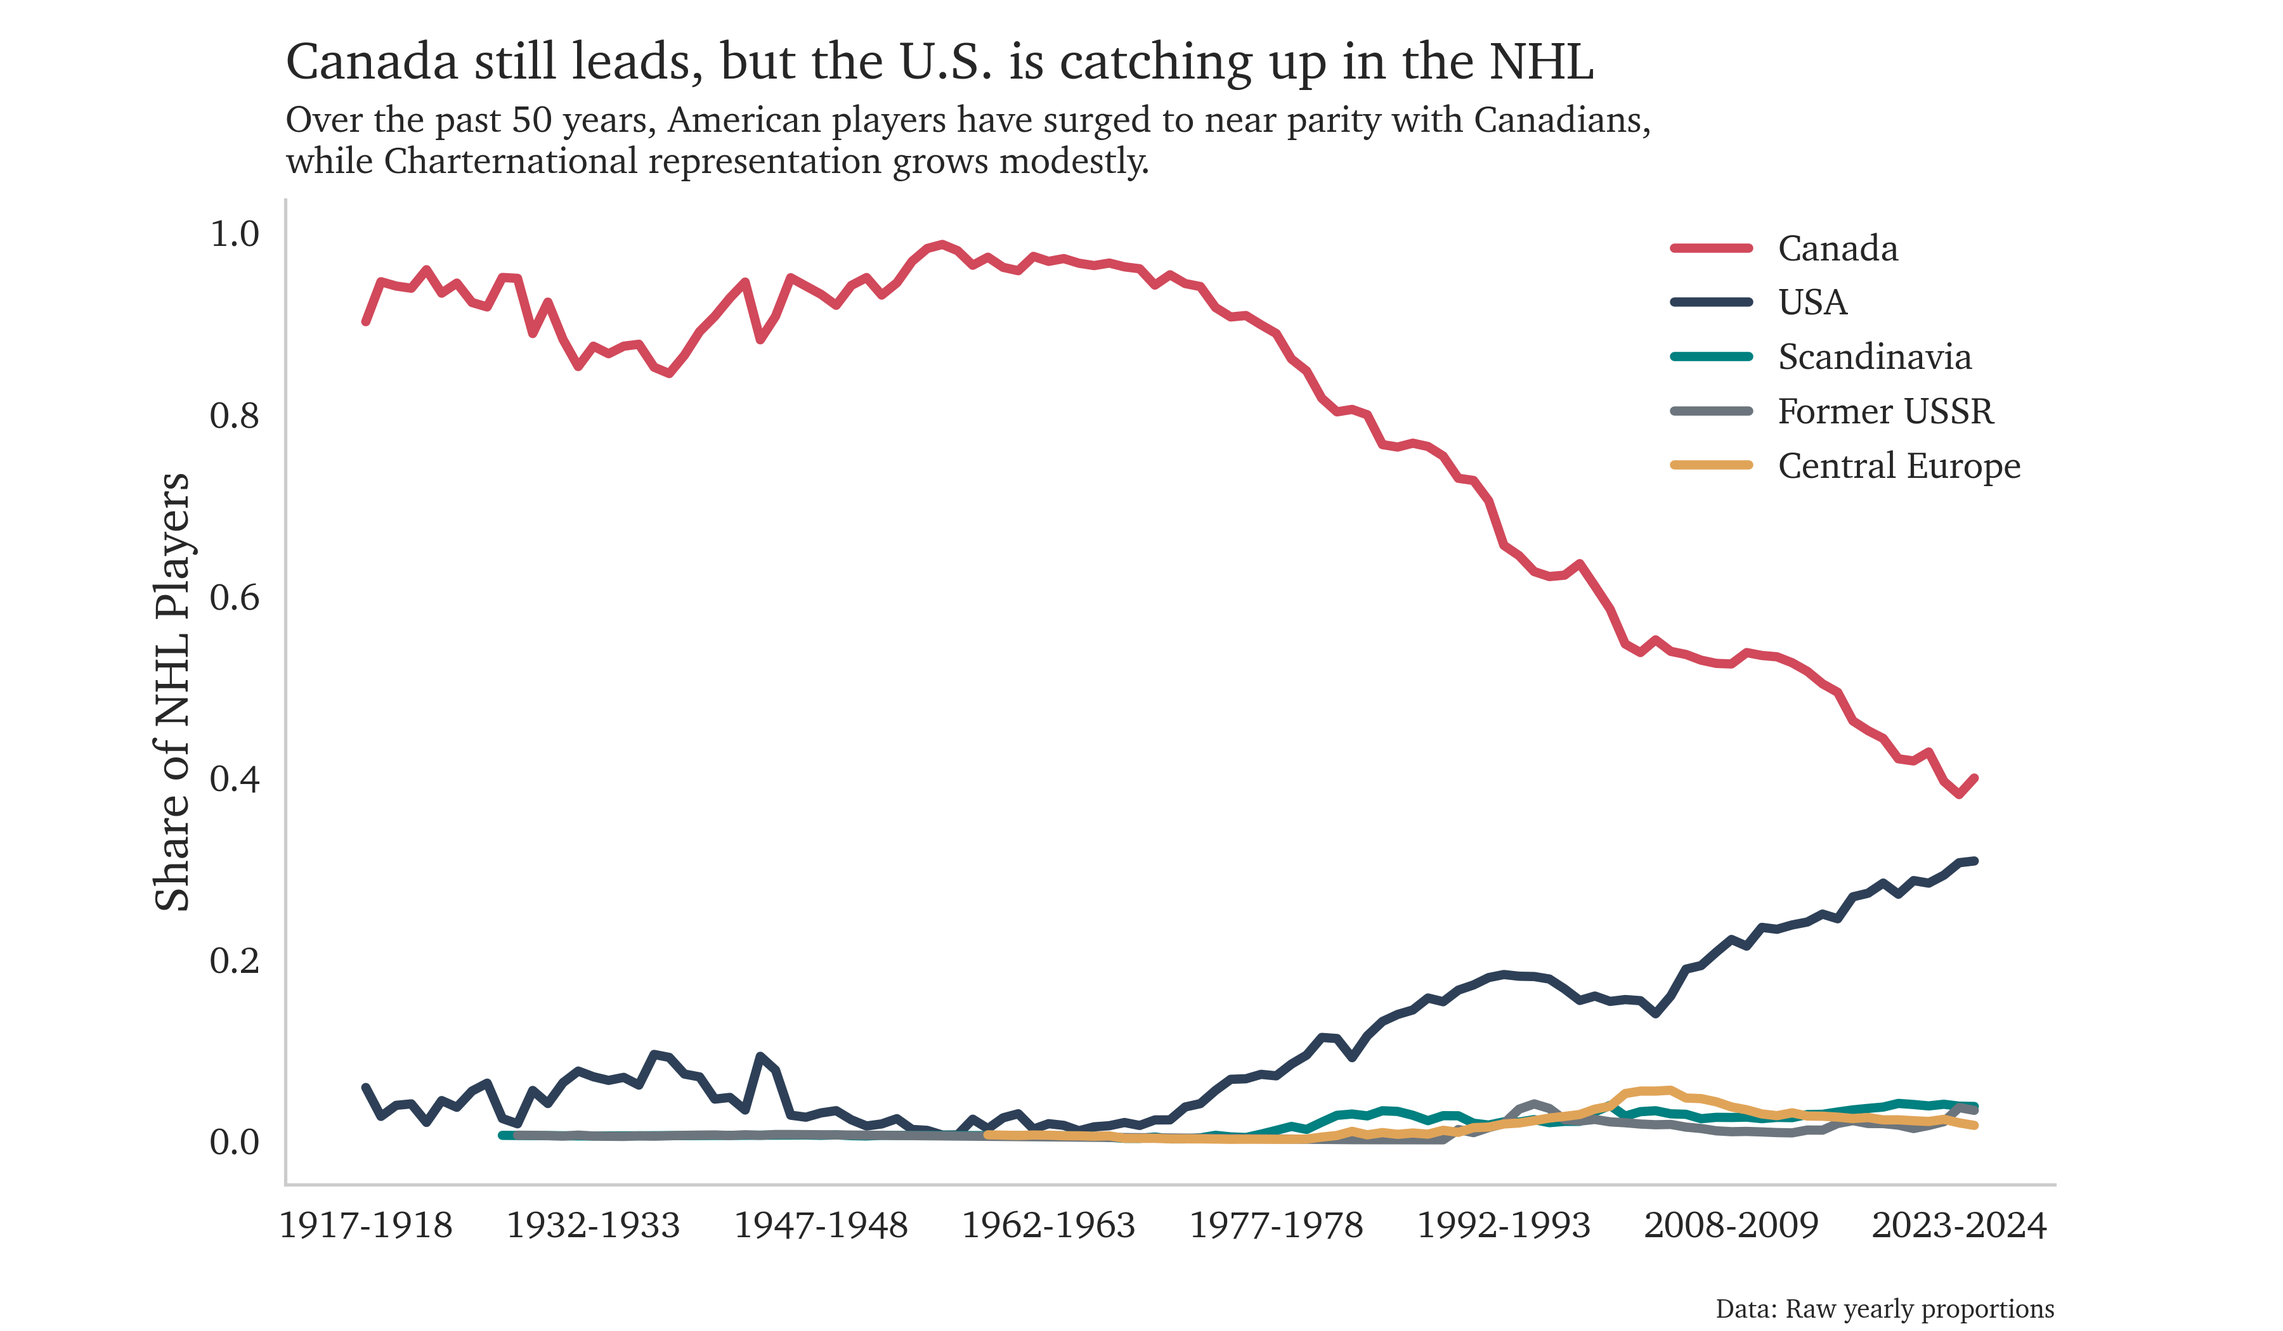
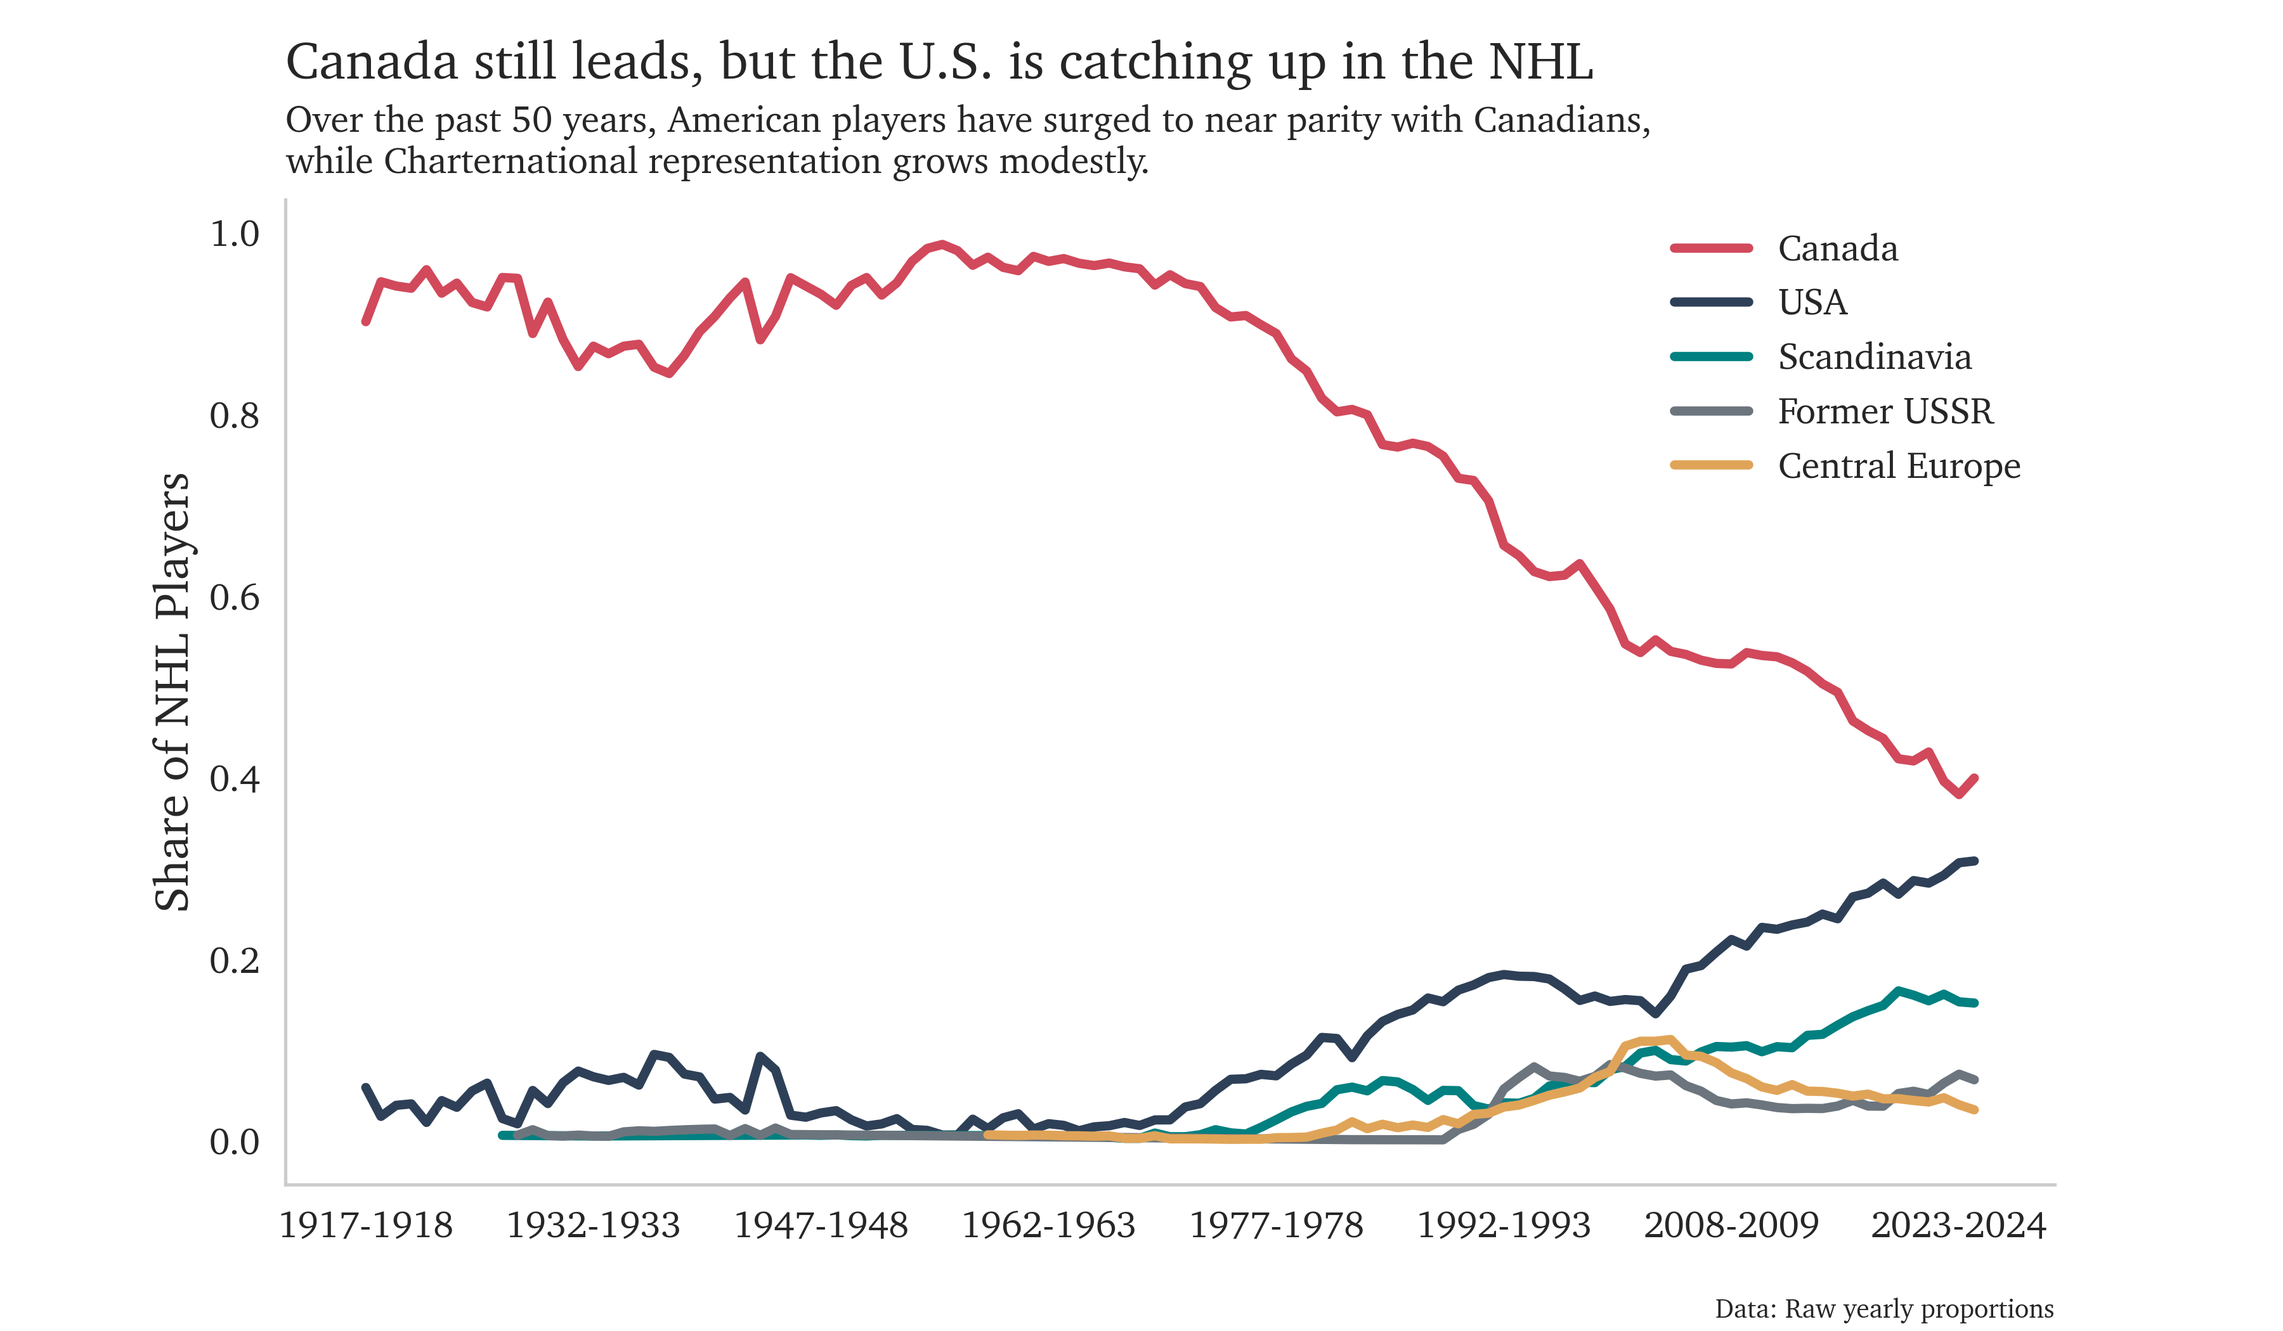
Updating nationality figure and cleaning analysis script

diff --git a/scripts/nhl-player-demographics/2. Time_Series_Descriptives.py b/scripts/nhl-player-demographics/2. Time_Series_Descriptives.py
@@ -53,7 +53,17 @@ roster = pd.read_csv("~/dev/hockey_site/data/nhl-player-demographics/rosters.csv
 
 # ----------------------------------------------------------------------
 #
-# COUNTRY COUNTS BY YEAR
+# ROSTER COUNTS
+#
+# ----------------------------------------------------------------------
+
+print('Total number of NHL rostered players from 1917 to 2025:', len(roster))
+print('Total roster years:', roster['season'].nunique())
+print('Total unique rostered players from 1917 to 2025:', roster['id'].nunique())
+
+# ----------------------------------------------------------------------
+#
+# NATIONALITY PROPORTIONS IN THE 2024-2025 AND OVERALL PLOT
 #
 # ----------------------------------------------------------------------
 
@@ -99,94 +109,72 @@ def map_country_group(country):
 # Apply dataframe dataframe
 country_year_df['country_group'] = country_year_df['birth_country'].apply(map_country_group)
 
-palette = {
-    'Canada': '#FF0000',
-    'USA': '#0A3161',
-    'Scandinavia': 'goldenrod',
-    'Central Europe': 'darkgreen',
-    'Former USSR': 'purple',
-    'Western Europe': 'orange',
-    'Other Europe': 'gray',
-    'Other': 'lightgray'
-}
+# ----------------------------------------------------------------------
+# AGGREGATION FOR PLOTTING
+# ----------------------------------------------------------------------
 
 # Get the max season
 latest_season = country_year_df['season'].max()
 
-# Compute total proportion for each group in the latest season
-latest_order = (
-    country_year_df[country_year_df['season'] == latest_season]
-    .groupby('country_group')['country_prop']
+# Get the latest group totals
+latest_group_totals = (
+    country_year_df.query("season == @latest_season")
+    .groupby('country_group', as_index=False)['country_prop']
     .sum()
-    .sort_values(ascending=False)
-    .index
+)
+
+latest_order = (
+    latest_group_totals
+    .sort_values('country_prop', ascending=False)['country_group']
     .tolist()
 )
+
+top_groups = latest_group_totals.nlargest(5, 'country_prop')['country_group'].tolist()
+
+# aggregate to group-by-season before plotting 
+plot_df = (
+    country_year_df[country_year_df['country_group'].isin(top_groups)]
+    .groupby(['season', 'country_group'], as_index=False)['country_prop']
+    .sum()
+)
+
+# Re-add the season label
+plot_df['season_label'] = plot_df['season'].apply(split_and_hyphenate)
 
 # Convert to categorical to enforce order
-country_year_df['country_group'] = pd.Categorical(
-    country_year_df['country_group'],
-    categories=latest_order,
-    ordered=True
-)
+plot_df['country_group'] = pd.Categorical(plot_df['country_group'], categories=top_groups, ordered=True)
 
-# TRY TO MAKE A FIVETHIRTYEIGHT OR OTHERWISE NARRATIVE STYLED PLOT
-# Set a clean aesthetic style
-sns.set(style="whitegrid")
-mpl.rcParams['font.family'] = 'Charter'
 
-# Restrict to only top 5 country groups in 2024–2025
-latest_season = country_year_df['season'].max()
-top_groups = (
-    country_year_df[country_year_df['season'] == latest_season]
-    .groupby('country_group')['country_prop']
-    .sum()
-    .sort_values(ascending=False)
-    .head(5)
-    .index
-    .tolist()
-)
-
-# Filter data to only include these groups
-filtered_df = country_year_df[country_year_df['country_group'].isin(top_groups)].copy()
-
-# Set order explicitly
-filtered_df['country_group'] = pd.Categorical(
-    filtered_df['country_group'],
-    categories=top_groups,
-    ordered=True
-)
-
-# Define a clean, journalistic color palette
-palette = {
-    'Canada': '#D1495B',
-    'USA': '#2E4057',
-    'Scandinavia': '#008080',
-    'Central Europe': '#E0A458',
-    'Former USSR': '#6C757D'
-}
+# ----------------------------------------------------------------------
 # PLOT
-fig, ax = plt.subplots(figsize=(12, 7))
+# ----------------------------------------------------------------------
 
-# Plot
+fig, ax = plt.subplots(figsize=(12, 7))
 sns.lineplot(
-    data=filtered_df,
+    data=plot_df,
     x="season_label",
     y="country_prop",
     hue="country_group",
-    palette=palette,
+    palette={
+        'Canada': '#D1495B',
+        'USA': '#2E4057',
+        'Scandinavia': '#008080',
+        'Central Europe': '#E0A458',
+        'Former USSR': '#6C757D'
+    },
     linewidth=3.5,
     ax=ax,
-    ci=None
+    errorbar=None  
 )
 
-# Style
+# Set a clean aesthetic style
+mpl.rcParams['font.family'] = 'Charter'
 sns.despine()
 ax.grid(False)
 
 # X-tick labels
 # Get unique season labels every 15 steps
-tick_labels = filtered_df['season_label'].unique()[::15]
+tick_labels = plot_df['season_label'].unique()[::15]
 
 # Set ticks and labels using actual string values
 ax.set_xticks(tick_labels)
@@ -235,7 +223,67 @@ fig.text(
 # Legend
 ax.legend(title="", frameon=False, loc='upper right', fontsize=14)
 save_figure("nhl_player_nationalities_trend.png")
+
 plt.show()
+
+# ----------------------------------------------------------------------
+#
+# AGE BY YEAR
+#
+# ----------------------------------------------------------------------
+
+# Important to start off - move the legend so it's in the other corner
+# and follows the same structure as country, with no box.
+
+# Test quickly, should I just have it the same as country? Plot the average
+# with CI band, or plot the smoothed curve?
+
+
+
+
+
+
+
+
+
+
+
+
+
+
+
+
+
+
+
+
+
+
+
+
+
+
+
+
+
+
+
+
+
+
+
+
+
+
+
+
+
+
+# ----------------------------------------------------------------------
+#
+# COUNTRY COUNTS BY YEAR
+#
+# ----------------------------------------------------------------------
 
 
 # CLEAN

diff --git a/posts/nhl-player-demographics.md b/posts/nhl-player-demographics.md
@@ -14,13 +14,13 @@ team to defend an empty net!<sup>(<a href="https://www.nytimes.com/2017/12/15/sp
 
 
 With these changes to the game there has also been changes to the players, with
-some things changing drastically, and some remaining surprisingly steady. In this
+some characteristics changing drastically, and some remaining surprisingly steady. In this
 post I'm going to conduct a deep dive into player demographic data for every single
 NHL roster from the 1917-1918 season to the 2024-2025 season.
 
 We'll look at the trends in nationality, age, height, weight across a comprehensive
 dataset of every single NHL player on every single NHL roster since 1917. That is,
-X,XXX unique players rostered YY,YYY times total across ZZZZ rosters. 
+8,595 unique players rostered 55,567 times total across 107 season rosters. 
 
 ## Nationality: From pure Canada to North American Mix
 
@@ -34,11 +34,12 @@ Montreal Canadiens, New York Rangers, and Toronto Maple Leafs.
 
 As you can see below, Canada once dominated the composition of the NHL with, at
 some points, over 95% of players being Canadian. Now, there is an almost even split
-with XX% of the NHL being Canadian and YY% being American. One plausible explanation 
+with 40% of the NHL being Canadian and 31% being American. One plausible explanation is
 simply a decline in Canadian youth hockey infrastructure, coupled with an increase
 in American youth hockey infrastructure. While it is not huge, Under-18 participation
 in hockey in Canada has declined 17% from 2009 to 2023, while in the US it has risen
-14%. This data of course does not go all the way back to the 1970s, where the decline
+14%.<sup>(<a href="https://apnews.com/article/us-hockey-growth-8e4aacaf752684bcf1e88b2596986973" target="_blank" rel="noopener noreferrer">3</a>)</sup> 
+This data of course does not go all the way back to the 1970s, where the decline
 in Canadian domination began.
 
 ![NHL Player Nationality Trends](/static/images/deep-dives/nhl-player-demographics/nhl_player_nationalities_trend.png)
@@ -52,7 +53,7 @@ The NHL has just continually expanded without really adding Canadian franchises.
 
 I would also be remiss if I didn't touch on the more international expansion. The
 numbers are relatively low for non-North American countries, but still notable with
-ZZ% of the league coming from Scandanavia, the Former USSR, and Central Europe more
+25% of the league coming from Scandanavia, the Former USSR, and Central Europe more
 broadly.
 
 ## Age: Fluctuations Tied to the Structure of the League
@@ -63,15 +64,15 @@ frame you look at.
 
 First, there seems to be a sort of odd sinusoidal trend where, regardless of position,
 players hovered around 28 years old in 1917, got progressively younger until about
-1950, got older until the mid 1960s, got younger again until the late 1908s, and then
+1950, got older until the mid 1960s, got younger again until the late 1980s, and then
 finally have gotten older again and now sort of plateaud. It's worth noting that these 
-changes aren't seismic, really ranging only from about24 to 28 years of age. 
+changes aren't seismic, really ranging only from about 24 to 28 years of age. 
 
 ![NHL Player Nationality Trends](/static/images/deep-dives/nhl-player-demographics/nhl_age_by_position.png)
 
 I think one possible reason for this cycle is simply how the league expanded and 
 changed over the years. The general trend seems to be "expansion = age decline." Interestingly, the shifts in trend seem to track quite closely
-with the "eras" of the league.<sup>(<a href="https://en.wikipedia.org/wiki/Timeline_of_the_National_Hockey_League" target="_blank" rel="noopener noreferrer">3</a>)</sup> 
+with the "eras" of the league.<sup>(<a href="https://en.wikipedia.org/wiki/Timeline_of_the_National_Hockey_League" target="_blank" rel="noopener noreferrer">4</a>)</sup> 
 Up until 1942, in the early era, the league fluctuated growing from four to ten teams,
 then back down to seven. In this era, the size of the league fluctuated between XX and YY
 players; again, more players, lower age.
@@ -83,12 +84,6 @@ experienced it's largest expansion era, growing 250% from 6 to 21 teams. In this
 the league again got younger and younger. From 1991 to 2017 the league again expanded,
 but only 30%. Less need for new young players, more static rosters, the league ages again.
 Finally, from 2017 until now the league has only added one team, and age has stagnated.
-
-ADD LINES TO THE AGE GRAPH FOR ERAS
-
-NEW GRAPH TEST HYPOTHESIS THAT ROSTER TURNOVER IS HIGHER WHEN AGE IS DECLINING,
-AND THEN ROSTERS STAGNATE, THE AGE SLOWLY RISES WITH THE PLAYERS, THEN PEOPLE START
-TO RETIRE AND YOUNGER FOLKS COME IN UNDERNEATH, REPEAT CYCLE.
 
 Secondly, the long term trend is that goalies have remained static around 28 years
 old while forwards and defencemen have declined from 28 to about 26 years old. I suspect
@@ -120,7 +115,7 @@ a dramatic rise in their overall height, eventually becoming the tallest players
 
 While there are many plausible reasons for this, one that I think rises to the top is implementation
 of helmets for goalies with the the shift towards the butterfly, or "profly" style popularized in
-the mid 1980s by Patrick Roy.<sup>(<a href="https://en.wikipedia.org/wiki/Butterfly_style" target="_blank" rel="noopener noreferrer">3</a>)</sup>
+the mid 1980s by Patrick Roy.<sup>(<a href="https://en.wikipedia.org/wiki/Butterfly_style" target="_blank" rel="noopener noreferrer">5</a>)</sup>
 Goalies were first required to wear masks in 1979-1980, followed quickly by some equipment changes
 that made it feasible for a goalie to drop to his knees (masks and more heavily armored chest and arm pads).
 
@@ -139,24 +134,50 @@ decline: as players get taller, they get heavier.
 ![NHL Player Nationality Trends](/static/images/deep-dives/nhl-player-demographics/nhl_weight_by_position.png)
 
 But, similar to the changes in goalie height, there may have been a shift in the last 15 to 20 years that
-allows players to be more effective while being lighter.
-
-Interpretation: The bulking era may have crested; teams may now prioritize pace and endurance.
-
-Data Note: Suggestive of shifting fitness norms or training philosophies post-2010s.
+allows players to be more effective while being lighter. There are a number of possible shifts that all seem
+plausible. One big change is likely that development and nutrition have changed. Players are starting younger,
+training more effectively, eating better. As a result, the league is getting faster and faster.<sup>(<a href="https://www.nhl.com/news/sunday-long-read-nhl-players-adapting-to-faster-league-with-weight-los-304065402" rel="noopener noreferrer">6</a>)</sup>
 
 
-Optional Transition Paragraph: What’s Missing or Evolving
-Opportunity to Set Up Next Sections:
+Young guys are coming in faster, older guys have to shed some kilos to match the speed and pace, and the league
+shrinks. There has also been some suggestion, like in other areas of the player demographics, that a shifting of
+the rules of the game have had an effect.<sup>(<a href="https://rezztek.com/blogs/news/evolution-of-hockey-bodies?srsltid=AfmBOopLfh-8o2FBwWkhoUhOCWmAdozKYtwiLfXBq2wEeRqOE2ukrd_l" rel="noopener noreferrer">7</a>)</sup> 
 
-How do these physical/demographic traits relate to performance or style of play?
-
-Have top lines changed more than bottom six?
-
-Do older, heavier teams fare better in playoffs?
+Specifically, there was a large swath of rule changes in the 2005-2006 season, right at the peak of the NHLs size, that
+were designed to encourage faster, more aggressive offensive play.<sup>(<a href="https://records.nhl.com/history/historical-rule-changes" rel="noopener noreferrer">8</a>)</sup> 
+For example, the league eliminated the two-line pass rule making it such that players could pass from
+their defensive zone across the red line, allowing for longer stretch passes, quick transitions, and breakaways.
+Additionally, the league reinstated the "tag-up" rule for offides, allowing an offensive player to
+simply pop one skate out of the zone and re-enter. This, as opposed to having to fully exit the zone,
+come to a stop, and re-enter, allows the game to maintain a faster more aggressive pace.
 
 ## Conclusion and New Questions
 
-Recap the Big Picture: The NHL has globalized and modernized, but its players’ core age profile hasn’t changed. Height has increased, weight surged then steadied, and Canada’s dominance has waned.
+Over the last hundred-odd years, the league has become more globalized, gotten taller,
+gotten lighter, and fluctuated in age. There are a number of plausible reasons for each of these shifts,
+ranging from just general population changes, to advancements in nutrition and training, to
+simple NHL rule changes that reward different styles of play.
 
-Forward-Looking Thought: As player development evolves and AI/data tools impact scouting, the next frontier may not be physical—it may be cognitive, tactical, or even psychological.
+I think this simple analysis of historical trends opens up a lot of interesting analytic windows.
+Here, I have simply chronicled these changes in a way that many have before. Moving forward, I think
+it would be important to understand the affects of these demographics. The NHL changed the rules to
+reward faster more aggressive play; do lighter, younger teams fare better? Goalie pads and playstyles
+have changed; do heavier, taller goalies _actually_ perform better? I noted that demographic shifts
+happen to coincide with leage expansions; do rosters actually turnover more (i.e., more retiring players,
+more new incoming players) in eras of expansion?
+
+There are a ton of open questions that I will continue to explore in these deep dives.
+
+
+<!--ADD LINES TO THE AGE GRAPH FOR ERAS-->
+
+<!--NEW GRAPH TEST HYPOTHESIS THAT ROSTER TURNOVER IS HIGHER WHEN AGE IS DECLINING,-->
+<!--AND THEN ROSTERS STAGNATE, THE AGE SLOWLY RISES WITH THE PLAYERS, THEN PEOPLE START-->
+<!--TO RETIRE AND YOUNGER FOLKS COME IN UNDERNEATH, REPEAT CYCLE.-->
+
+
+
+
+
+
+
